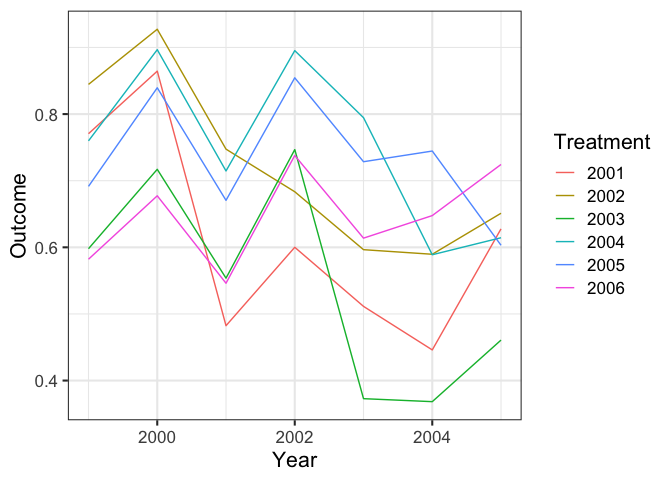
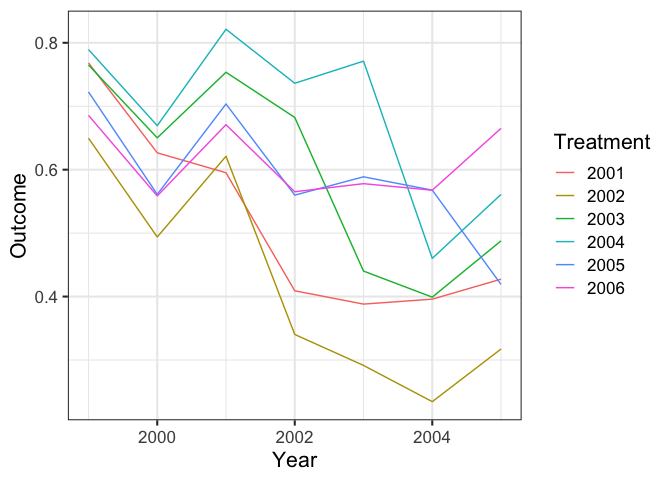
Add type checks and name checks to ES

diff --git a/README.md b/README.md
@@ -3,7 +3,7 @@ eventStudy: Perform an Event Study in R
 
 Created by David Novgorodsky and Bradley Setzler, University of Chicago
 
-Also see [our Practical Guide to Event Studies](https://github.com/setzler/eventStudy/blob/master/guide/event_study_guide.pdf).
+The methods are explained in [our companion Practical Guide to Event Studies](https://github.com/setzler/eventStudy/blob/master/guide/event_study_guide.pdf).
 
 **Disclaimer:** By using this software, you accept the terms of the MIT license. This is a work in progress. It is updated frequently. Please let us know if you find any bugs or have questions that are not addressed in the documentation.
 
@@ -16,12 +16,12 @@ Overview
 -   It allows the estimated treatment effects to vary over time and by treatment cohort. It can also impose a common treatment effect across cohorts (extending results by Abraham and Sun, 2018);
 -   It has built-in tools to correct for anticipation (extending results by Fadlon & Nielsen, 2018) and deviations from parallel trends (either using covariate balancing in the spirit of Abadie, 2003, or modeling parametric deviations from parallel trends).
 
-The latest version of the package can be installed with the command `devtools::install_github("setzler/eventStudy")`.
+The latest version of the package can be installed with the command `devtools::install_github("setzler/eventStudy/eventStudy")`.
 
 The `ES` command
 ================
 
-The event study is performed by the `ES` command.
+The event study is performed by the `ES` command. The examples below show how to use it.
 
 ### Required Arguments of the `ES` command:
 
@@ -57,7 +57,7 @@ Examples
 ### Getting started
 
 ``` r
-devtools::install_github("setzler/eventStudy")
+devtools::install_github("setzler/eventStudy/eventStudy")
 ```
 
 ``` r
@@ -76,18 +76,18 @@ sim_data <- ES_simulate_data(units = 1000)[["observed"]]
 sim_data[]
 ```
 
-    ##       individual year treatment_year   outcome
-    ##    1:          1 1999           2006 0.4659262
-    ##    2:          1 2000           2006 1.0443166
-    ##    3:          1 2001           2006 0.4022417
-    ##    4:          1 2002           2006 0.9955854
-    ##    5:          1 2003           2006 0.6880951
-    ##   ---                                         
-    ## 6996:       1000 2001           2002 0.8215460
-    ## 6997:       1000 2002           2002 0.6936623
-    ## 6998:       1000 2003           2002 0.8240132
-    ## 6999:       1000 2004           2002 0.4881100
-    ## 7000:       1000 2005           2002 0.6805106
+    ##       individual year treatment_year    outcome
+    ##    1:          1 1999           2003 0.98167844
+    ##    2:          1 2000           2003 0.57279337
+    ##    3:          1 2001           2003 0.97588704
+    ##    4:          1 2002           2003 0.82146202
+    ##    5:          1 2003           2003 0.08554867
+    ##   ---                                          
+    ## 6996:       1000 2001           2003 0.60283019
+    ## 6997:       1000 2002           2003 0.79329822
+    ## 6998:       1000 2003           2003 0.60895439
+    ## 6999:       1000 2004           2003 0.24397755
+    ## 7000:       1000 2005           2003 0.70081946
 
 In this data, the treatment is received in the year given by the `treatment_year` variable. The other variables are `individual`, `year`, and `outcome`. We wish to perform an event study to understand the effect of this treatment on this outcome.
 
@@ -114,9 +114,9 @@ results <- ES(long_data=sim_data, outcomevar="outcome", unit_var="individual", c
     ## Warning in as.POSIXlt.POSIXct(x, tz): unknown timezone 'zone/tz/2018i.1.0/
     ## zoneinfo/America/Chicago'
 
-    ## INFO [2019-01-23 23:36:33] Successfully produced a stacked dataset.
-    ## INFO [2019-01-23 23:36:34] Estimated heterogeneous case with OLS.
-    ## INFO [2019-01-23 23:36:34] Estimated homogeneous case with OLS.
+    ## INFO [2019-01-24 00:51:01] Successfully produced a stacked dataset.
+    ## INFO [2019-01-24 00:51:02] Estimated heterogeneous case with OLS.
+    ## INFO [2019-01-24 00:51:02] Estimated homogeneous case with OLS.
 
 Now, we plot the results. First, we plot the treatment and control means. The ES function has constructed the appropriate control group for each treatment group. We can see that it looks much cleaner than in the raw data:
 
